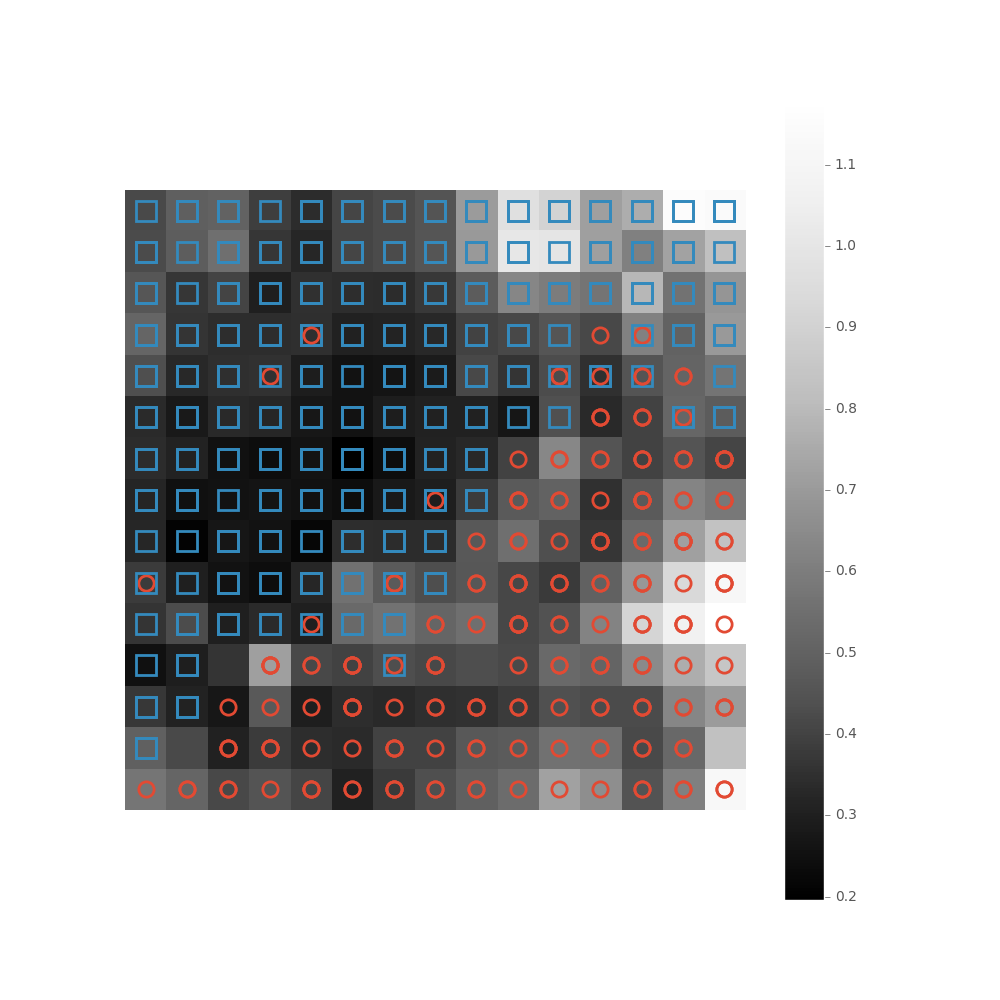
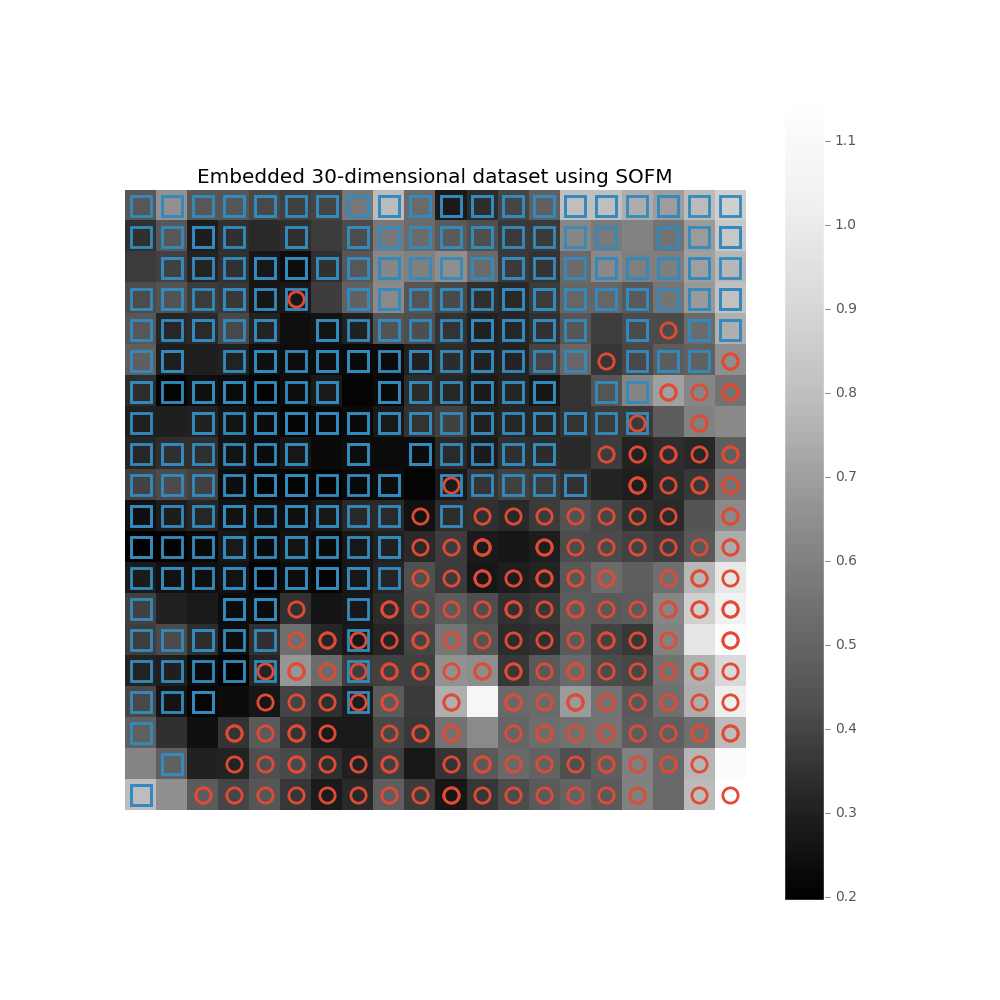
updated docs and sofm examples

diff --git a/examples/competitive/sofm_heatmap_visualization.py b/examples/competitive/sofm_heatmap_visualization.py
@@ -1,3 +1,5 @@
+import argparse
+
 import numpy as np
 import matplotlib.pyplot as plt
 from sklearn import datasets, preprocessing
@@ -8,6 +10,9 @@ from utils import iter_neighbours
 
 plt.style.use('ggplot')
 environment.reproducible()
+
+parser = argparse.ArgumentParser()
+parser.add_argument('--expanded-heatmap', action='store_true')
 
 class_parameters = [
     dict(
@@ -54,9 +59,31 @@ def compute_heatmap(weight):
     return heatmap
 
 
+def compute_heatmap_expanded(weight):
+    heatmap = np.zeros((2 * GRID_HEIGHT - 1, 2 * GRID_WIDTH - 1))
+    for (neuron_x, neuron_y), neighbours in iter_neighbours(weight):
+        total_distance = 0
+
+        for (neigbour_x, neigbour_y) in neighbours:
+            neuron_vec = weight[:, neuron_x, neuron_y]
+            neigbour_vec = weight[:, neigbour_x, neigbour_y]
+
+            distance = np.linalg.norm(neuron_vec - neigbour_vec)
+
+            if neuron_x == neigbour_x and (neigbour_y - neuron_y) == 1:
+                heatmap[2 * neuron_x, 2 * neuron_y + 1] = distance
+
+            elif (neigbour_x - neuron_x) == 1 and neigbour_y == neuron_y:
+                heatmap[2 * neuron_x + 1, 2 * neuron_y] = distance
+
+    return heatmap
+
+
 if __name__ == '__main__':
-    GRID_HEIGHT = 15
-    GRID_WIDTH = 15
+    args = parser.parse_args()
+
+    GRID_HEIGHT = 20
+    GRID_WIDTH = 20
 
     sofm = algorithms.SOFM(
         n_inputs=30,
@@ -76,14 +103,25 @@ if __name__ == '__main__':
     sofm.train(data, epochs=300)
     clusters = sofm.predict(data).argmax(axis=1)
 
-    plt.figure(figsize=(10, 10))
+    plt.figure(figsize=(13, 13))
+    plt.title("Embedded 30-dimensional dataset using SOFM")
 
     for actual_class, cluster_index in zip(target, clusters):
-        cluster_coords = divmod(cluster_index, GRID_HEIGHT)
-        plt.plot(*cluster_coords, **class_parameters[actual_class])
+        cluster_x, cluster_y = divmod(cluster_index, GRID_HEIGHT)
+        parameters = class_parameters[actual_class]
+
+        if args.expanded_heatmap:
+            plt.plot(2 * cluster_x, 2 * cluster_y, **parameters)
+        else:
+            plt.plot(cluster_x, cluster_y, **parameters)
 
     weight = sofm.weight.reshape((sofm.n_inputs, GRID_HEIGHT, GRID_WIDTH))
-    heatmap = compute_heatmap(weight)
+
+    if args.expanded_heatmap:
+        heatmap = compute_heatmap_expanded(weight)
+    else:
+        heatmap = compute_heatmap(weight)
+
     plt.imshow(heatmap, cmap='Greys_r', interpolation='nearest')
 
     plt.axis('off')

diff --git a/examples/competitive/sofm_iris_clustering.py b/examples/competitive/sofm_iris_clustering.py
@@ -1,0 +1,64 @@
+from operator import itemgetter
+
+import numpy as np
+from sklearn import datasets
+import matplotlib.pyplot as plt
+from neupy import algorithms, environment
+
+
+plt.style.use('ggplot')
+environment.reproducible()
+
+
+if __name__ == '__main__':
+    ggplot_colors = plt.rcParams['axes.prop_cycle']
+    colors = np.array([c['color'] for c in ggplot_colors])
+
+    dataset = datasets.load_iris()
+    # use only two features in order
+    # to make visualization simpler
+    data = dataset.data[:, [2, 3]]
+    target = dataset.target
+
+    sofm = algorithms.SOFM(
+        # Use only two features for the input
+        n_inputs=2,
+
+        # Number of outputs defines number of features
+        # in the SOFM or in terms of clustering - number
+        # of clusters
+        n_outputs=20,
+
+        # In clustering application we will prefer that
+        # clusters will be updated independently from each
+        # other. For this reason we set up learning radius
+        # equal to zero
+        learning_radius=0,
+
+        # Training step size or learning rate
+        step=0.25,
+
+        # Shuffles dataset before every training epoch.
+        shuffle_data=True,
+
+        # Instead of generating random weights
+        # (features / cluster centers) SOFM will sample
+        # them from the data. Which means that after
+        # initialization step 3 random data samples will
+        # become cluster centers
+        weight='sample_from_data',
+
+        # Shows training progress in terminal
+        verbose=True,
+    )
+    sofm.train(data, epochs=200)
+
+    plt.title('Clustering iris dataset with SOFM')
+    plt.xlabel('Feature #3')
+    plt.ylabel('Feature #4')
+
+    plt.scatter(*data.T, c=colors[target], s=100, alpha=1)
+    cluster_centers = plt.scatter(*sofm.weight, s=300, c=colors[3])
+
+    plt.legend([cluster_centers], ['Cluster center'], loc='upper left')
+    plt.show()

diff --git a/examples/competitive/sofm_basic.py b/examples/competitive/sofm_basic.py
@@ -21,8 +21,8 @@ sofmnet = algorithms.SOFM(
     n_inputs=2,
     n_outputs=3,
 
-    step=0.1,
-    show_epoch=100,
+    step=0.5,
+    show_epoch=20,
     shuffle_data=True,
     verbose=True,
 

diff --git a/site/docs/tutorials.rst b/site/docs/tutorials.rst
@@ -27,6 +27,9 @@ Jupyter Notebooks
 Convolutional Neural Networks
 ~~~~~~~~~~~~~~~~~~~~~~~~~~~~~~
 
+Image classification
+++++++++++++++++++++
+
 * `MNIST CNN <https://github.com/itdxer/neupy/tree/master/examples/cnn/mnist_cnn.py>`_
 * `CIFAR10 CNN <https://github.com/itdxer/neupy/tree/master/examples/cnn/cifar10_cnn.py>`_
 * `Pre-trained AlexNet CNN <https://github.com/itdxer/neupy/tree/master/examples/cnn/alexnet.py>`_
@@ -52,10 +55,10 @@ Recurrent Neural Networks
 Autoencoders
 ~~~~~~~~~~~~
 
-* `MNIST, Denoising Autoencoder (DAE) <https://github.com/itdxer/neupy/tree/master/examples/autoencoder/denoising_autoencoder.py>`_
+* `MNIST, Denoising Autoencoder <https://github.com/itdxer/neupy/tree/master/examples/autoencoder/denoising_autoencoder.py>`_
 * `MNIST, Convolutional Autoencoder <https://github.com/itdxer/neupy/tree/master/examples/autoencoder/conv_autoencoder.py>`_
 * `MNIST, Stacked Convolutional Autoencoders <https://github.com/itdxer/neupy/tree/master/examples/autoencoder/stacked_conv_autoencoders.py>`_
-* `MNIST, Variational Autoencoder (VAE) <https://github.com/itdxer/neupy/tree/master/examples/autoencoder/variational_autoencoder.py>`_
+* `MNIST, Variational Autoencoder <https://github.com/itdxer/neupy/tree/master/examples/autoencoder/variational_autoencoder.py>`_
 
 Boltzmann Machine
 ~~~~~~~~~~~~~~~~~
@@ -66,22 +69,57 @@ Boltzmann Machine
 MLP Neural Networks
 ~~~~~~~~~~~~~~~~~~~
 
+Regression
+++++++++++
+
+* `Boston House Price prediction, Hessian algorithm <https://github.com/itdxer/neupy/tree/master/examples/mlp/boston_price_prediction.py>`_
+
+Image classification
+++++++++++++++++++++
+
 * `MNIST, Multilayer perceptron <https://github.com/itdxer/neupy/tree/master/examples/mlp/mnist_mlp.py>`_
 * `Rectangle images, Multilayer perceptron <https://github.com/itdxer/neupy/tree/master/examples/mlp/rectangles_mlp.py>`_
-* `Boston House Price prediction, Hessian algorithm <https://github.com/itdxer/neupy/tree/master/examples/mlp/boston_price_prediction.py>`_
+
+Visualizations
+++++++++++++++
+
 * `Learning Algorithms Visualization, Gradient Descent, Momentum, RPROP and Conjugate Gradient <https://github.com/itdxer/neupy/tree/master/examples/mlp/gd_algorithms_visualization.py>`_
+
+Classification
+++++++++++++++
+
 * `IMDB review classification using CBOW and RPROP MLP <https://github.com/itdxer/neupy/tree/master/examples/mlp/imdb_review_classification>`_
 * `MLP with categorical and numerical features <https://github.com/itdxer/neupy/tree/master/examples/mlp/mix_categorical_numerical_inputs.py>`_
 
 Competitive Neural Networks
 ~~~~~~~~~~~~~~~~~~~~~~~~~~~
 
+SOFM Clustering
++++++++++++++++
+
 * `Simple SOFM example <https://github.com/itdxer/neupy/tree/master/examples/competitive/sofm_basic.py>`_
+* `Clustering iris dataset using SOFM <https://github.com/itdxer/neupy/tree/master/examples/competitive/sofm_iris_clustering.py>`_
+
+SOFM Data topology learning
++++++++++++++++++++++++++++
+
 * `Learning half-circle topology with SOFM <https://github.com/itdxer/neupy/tree/master/examples/competitive/sofm_moon_topology.py>`_
+
+Explore SOFM features
++++++++++++++++++++++
+
 * `Compare feature grid types for SOFM <https://github.com/itdxer/neupy/tree/master/examples/competitive/sofm_compare_grid_types.py>`_
 * `Compare weight initialization methods for SOFM <https://github.com/itdxer/neupy/tree/master/examples/competitive/sofm_compare_weight_init.py>`_
+
+SOFM Visualizations
++++++++++++++++++++
+
 * `Visualize digit images in 2D space with SOFM <https://github.com/itdxer/neupy/tree/master/examples/competitive/sofm_digits.py>`_
 * `Embedding 30-dimensional dataset into 2D and building heatmap visualization for SOFM <https://github.com/itdxer/neupy/tree/master/examples/competitive/sofm_heatmap_visualization.py>`_
+
+LVQ
++++
+
 * `Reduce number of training samples in iris dataset with LVQ3 <https://github.com/itdxer/neupy/tree/master/examples/competitive/reduce_iris_sample_size_lvq.py>`_
 
 Neural Networks with Radial Basis Functions

diff --git a/README.rst b/README.rst
@@ -68,6 +68,9 @@ Examples
 Convolutional Neural Networks
 ~~~~~~~~~~~~~~~~~~~~~~~~~~~~~~
 
+Image classification
+++++++++++++++++++++
+
 * `MNIST CNN <https://github.com/itdxer/neupy/tree/master/examples/cnn/mnist_cnn.py>`_
 * `CIFAR10 CNN <https://github.com/itdxer/neupy/tree/master/examples/cnn/cifar10_cnn.py>`_
 * `Pre-trained AlexNet CNN <https://github.com/itdxer/neupy/tree/master/examples/cnn/alexnet.py>`_
@@ -107,22 +110,57 @@ Boltzmann Machine
 MLP Neural Networks
 ~~~~~~~~~~~~~~~~~~~
 
+Regression
+++++++++++
+
+* `Boston House Price prediction, Hessian algorithm <https://github.com/itdxer/neupy/tree/master/examples/mlp/boston_price_prediction.py>`_
+
+Image classification
+++++++++++++++++++++
+
 * `MNIST, Multilayer perceptron <https://github.com/itdxer/neupy/tree/master/examples/mlp/mnist_mlp.py>`_
 * `Rectangle images, Multilayer perceptron <https://github.com/itdxer/neupy/tree/master/examples/mlp/rectangles_mlp.py>`_
-* `Boston House Price prediction, Hessian algorithm <https://github.com/itdxer/neupy/tree/master/examples/mlp/boston_price_prediction.py>`_
+
+Visualizations
+++++++++++++++
+
 * `Learning Algorithms Visualization, Gradient Descent, Momentum, RPROP and Conjugate Gradient <https://github.com/itdxer/neupy/tree/master/examples/mlp/gd_algorithms_visualization.py>`_
+
+Classification
+++++++++++++++
+
 * `IMDB review classification using CBOW and RPROP MLP <https://github.com/itdxer/neupy/tree/master/examples/mlp/imdb_review_classification>`_
 * `MLP with categorical and numerical features <https://github.com/itdxer/neupy/tree/master/examples/mlp/mix_categorical_numerical_inputs.py>`_
 
 Competitive Neural Networks
 ~~~~~~~~~~~~~~~~~~~~~~~~~~~
 
+SOFM Clustering
++++++++++++++++
+
 * `Simple SOFM example <https://github.com/itdxer/neupy/tree/master/examples/competitive/sofm_basic.py>`_
+* `Clustering iris dataset using SOFM <https://github.com/itdxer/neupy/tree/master/examples/competitive/sofm_iris_clustering.py>`_
+
+SOFM Data topology learning
++++++++++++++++++++++++++++
+
 * `Learning half-circle topology with SOFM <https://github.com/itdxer/neupy/tree/master/examples/competitive/sofm_moon_topology.py>`_
+
+Explore SOFM features
++++++++++++++++++++++
+
 * `Compare feature grid types for SOFM <https://github.com/itdxer/neupy/tree/master/examples/competitive/sofm_compare_grid_types.py>`_
 * `Compare weight initialization methods for SOFM <https://github.com/itdxer/neupy/tree/master/examples/competitive/sofm_compare_weight_init.py>`_
+
+SOFM Visualizations
++++++++++++++++++++
+
 * `Visualize digit images in 2D space with SOFM <https://github.com/itdxer/neupy/tree/master/examples/competitive/sofm_digits.py>`_
 * `Embedding 30-dimensional dataset into 2D and building heatmap visualization for SOFM <https://github.com/itdxer/neupy/tree/master/examples/competitive/sofm_heatmap_visualization.py>`_
+
+LVQ
++++
+
 * `Reduce number of training samples in iris dataset with LVQ3 <https://github.com/itdxer/neupy/tree/master/examples/competitive/reduce_iris_sample_size_lvq.py>`_
 
 Neural Networks with Radial Basis Functions

diff --git a/examples/competitive/README.md b/examples/competitive/README.md
@@ -1,21 +1,49 @@
 # Examples of competitive neural networks
 
-## Output from sofm_digits.py
+## Visualizing MNIST dataset
+
+```bash
+$ python sofm_digits.py
+```
 
 ![](images/sofm-digits.png)
 
-## Output from sofm_heatmap_visualization.py
+## Visualizing high-dimensional datasets
+
+```bash
+$ python sofm_heatmap_visualization.py
+```
 
 ![](images/sofm-heatmap.png)
 
-## Output from sofm_moon_topology.py
+## Learning topology of the moon shaped cluster
+
+```bash
+$ python sofm_moon_topology.py
+```
 
 ![](images/sofm-moon-topology.png)
 
-## Output from sofm_compare_grid_types.py
+## Compare different SOFM's grid types
+
+```bash
+$ python sofm_compare_grid_types.py
+```
 
 ![](images/sofm-hexagon-vs-rectangular-grid.png)
 
-## Output from sofm_compare_weight_init.py
+## Compare different SOFM's weight initializations
+
+```bash
+$ python sofm_compare_weight_init.py
+```
 
 ![](images/compare-weight-init-methods.png)
+
+## Cluster iris dataset using SOFM
+
+```bash
+$ python sofm_iris_clustering.py
+```
+
+![](images/sofm-iris-clustering.png)

diff --git a/site/2016/11/12/mnist_classification.rst b/site/2016/11/12/mnist_classification.rst
@@ -185,5 +185,5 @@ The 98.37% accuracy is pretty good for such a quick solution. Additional modific
 
 .. author:: default
 .. categories:: none
-.. tags:: classification, tutorials, supervised, backpropagation
+.. tags:: classification, tutorials, supervised, backpropagation, image recognition, deep learning
 .. comments::
